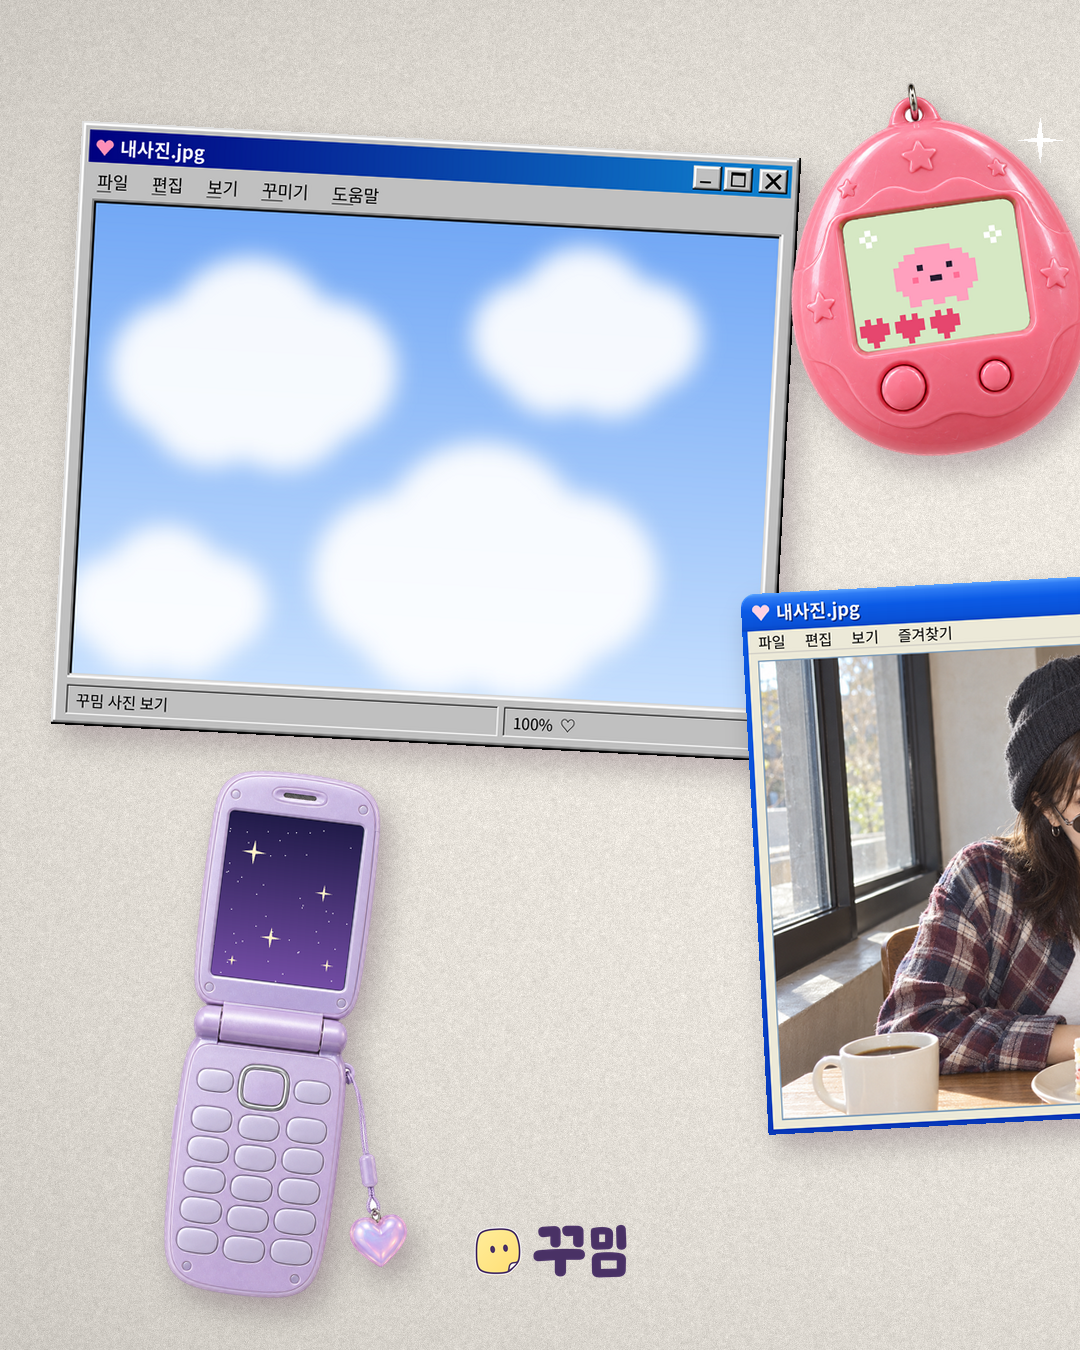
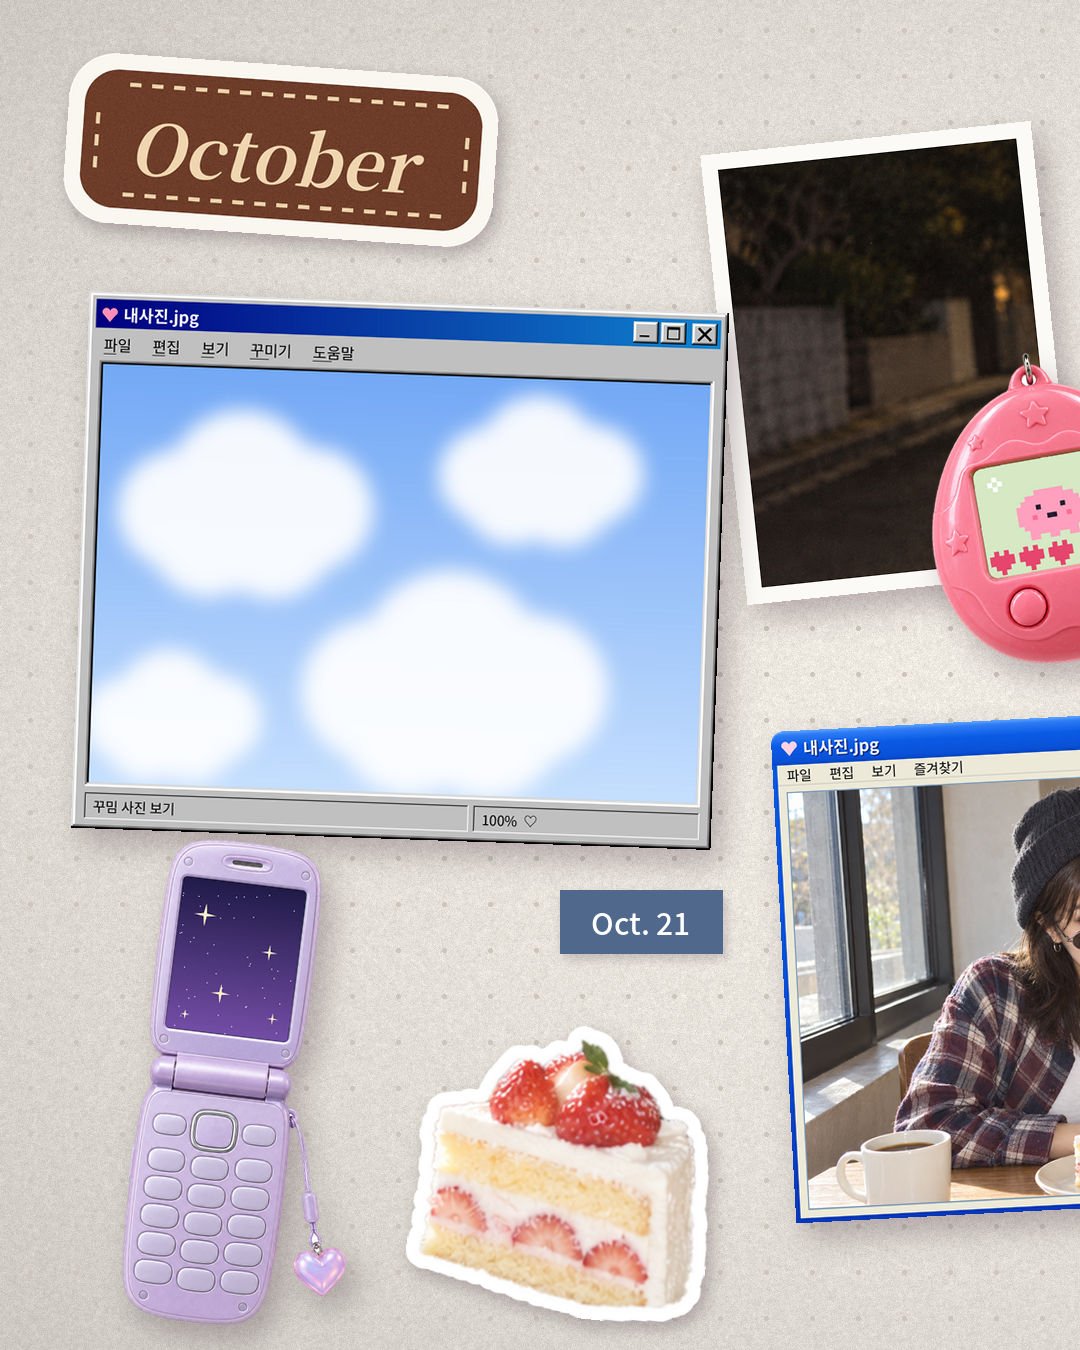
kkumeme 프레임 홍보 시안 v3 (스크랩북 요소: 인화 사진·자수 패치·라벨·케이크 오림·단추 스티커)
Claude-Session: https://claude.ai/code/session_01Sztbiq9udTvNwGj4WqCidT

diff --git a/kkumeme/promo-frames/tools/compose3.py b/kkumeme/promo-frames/tools/compose3.py
@@ -1,0 +1,63 @@
+exec(open('/home/claude/promo/compose.py').read().split('c = background(); d = ImageDraw.Draw(c)')[0])
+SC = '/home/claude/promo/screens/'
+def bg_dots():
+    c = background(); d = ImageDraw.Draw(c)
+    for y in range(30, H, 46):
+        for x in range(30, W, 46): d.ellipse([x-2, y-2, x+2, y+2], fill=(205, 198, 188, 255))
+    return c
+def print_photo(path, box, w, h, border=0.055, bright=1.0):
+    ph = Image.open(path).convert("RGB").crop(box); ph = ph.point(lambda v: min(255, int(v*bright))); sc = max(w/ph.width, h/ph.height)
+    ph = ph.resize((math.ceil(ph.width*sc), math.ceil(ph.height*sc)), Image.LANCZOS)
+    ox, oy = (ph.width-w)//2, (ph.height-h)//2; ph = ph.crop((ox, oy, ox+w, oy+h))
+    b = int(min(w, h)*border); out = Image.new("RGBA", (w+2*b, h+2*b), (252, 250, 246, 255)); out.paste(ph, (b, b)); return out
+def patch(text, w=430, h=170):
+    S = 3; im = Image.new("RGBA", (w*S, h*S), (0,0,0,0)); d = ImageDraw.Draw(im)
+    d.rounded_rectangle([0, 0, w*S-1, h*S-1], radius=46*S, fill=(250, 247, 240, 255))
+    m = 16*S; d.rounded_rectangle([m, m, w*S-m, h*S-m], radius=34*S, fill=(110, 62, 42, 255))
+    # felt noise
+    a = np.asarray(im).astype(np.float32); rng = np.random.default_rng(1); nz = rng.normal(0, 9, a.shape[:2])
+    inner = a[...,3] > 0; a[...,:3][(a[...,0] < 200)] += nz[(a[...,0] < 200)][:, None]; im = Image.fromarray(a.clip(0,255).astype(np.uint8), "RGBA"); d = ImageDraw.Draw(im)
+    # stitches
+    s = 30*S; x0, y0, x1, y1 = s, s, w*S-s, h*S-s; step = 22*S
+    for x in range(x0+30*S, x1-30*S, step): d.line([x, y0, x+11*S, y0], fill=(236, 210, 170), width=4*S); d.line([x, y1, x+11*S, y1], fill=(236, 210, 170), width=4*S)
+    for y in range(y0+30*S, y1-30*S, step): d.line([x0, y, x0, y+11*S], fill=(236, 210, 170), width=4*S); d.line([x1, y, x1, y+11*S], fill=(236, 210, 170), width=4*S)
+    t = Image.new("RGBA", im.size, (0,0,0,0)); dt = ImageDraw.Draw(t)
+    dt.text((w*S//2, h*S//2+4*S), text, font=ImageFont.truetype("/usr/share/fonts/opentype/noto/NotoSerifCJK-Bold.ttc", 70*S, index=1), fill=(240, 214, 176), anchor="mm")
+    t = t.transform(t.size, Image.AFFINE, (1, 0.22, -0.11*t.height, 0, 1, 0), resample=Image.BICUBIC)
+    im.alpha_composite(t); return im.resize((w, h), Image.LANCZOS)
+def label(text, bgc, w=None, fs=30):
+    f = F(fs, "Medium"); tw = int(ImageDraw.Draw(Image.new("RGB", (1,1))).textlength(text, font=f)); w = w or tw + 64; h = fs + 34
+    im = Image.new("RGBA", (w, h), bgc + (255,)); ImageDraw.Draw(im).text((w//2, h//2), text, font=f, fill=(255,255,255), anchor="mm"); return im
+def button(r=90, col=(226, 48, 58)):
+    S = 3; R = r*S; im = Image.new("RGBA", (2*R+40*S, 2*R+60*S), (0,0,0,0)); d = ImageDraw.Draw(im); cx, cy = R+20*S, R+46*S
+    d.ellipse([cx-R-12*S, cy-R-12*S, cx+R+12*S, cy+R+12*S], fill=(252, 250, 246))  # die-cut
+    d.polygon([(cx+6*S, cy-R+6*S), (cx+60*S, cy-R-34*S), (cx+20*S, cy-R+10*S)], fill=(252,250,246)); 
+    d.ellipse([cx-R, cy-R, cx+R, cy+R], fill=col); d.ellipse([cx-R*0.75, cy-R*0.8, cx-R*0.1, cy-R*0.35], fill=(255, 120, 120))
+    d.ellipse([cx+8*S, cy-R-26*S, cx+56*S, cy-R+6*S], fill=(70, 160, 70))
+    for dx in (-26, 26): d.ellipse([cx+dx*S-16*S, cy-16*S, cx+dx*S+16*S, cy+16*S], fill=(255, 235, 235))
+    return im.resize((im.width//S, im.height//S), Image.LANCZOS)
+
+c = bg_dots(); d = ImageDraw.Draw(c)
+# left
+shadow_place(c, patch("October"), 60, 50, rot=-4, blur=8, off=(5, 7))
+shadow_place(c, print_photo(PH+"street-flash.png", (0, 0, 520, 760), 300, 420, bright=1.35), 700, 120, rot=6)
+shadow_place(c, framed("window-retro", SC+"sky.png", 640), 70, 290, rot=-2)
+shadow_place(c, framed("pet-egg", SC+"pixel-pet.png", 250, (0.5, 0.5)), 900, 330, rot=10)
+shadow_place(c, label("Oct. 21", (79, 104, 140)), 560, 890, rot=0, blur=5, off=(3, 5), op=0.2)
+shadow_place(c, framed("flip-phone", SC+"wallpaper.png", 230, (0.5, 0.3)), 110, 830, rot=-7)
+cake = Image.open(WK+"cake.png"); cake = cake.resize((300, int(300*cake.height/cake.width)), Image.LANCZOS)
+shadow_place(c, cake, 400, 1010, rot=-6, blur=8, off=(5, 7))
+# seam
+shadow_place(c, framed("window-glossy", "cafe-strawberry.png", 600, (0.5, 0.35)), 770, 700, rot=3)
+# right
+shadow_place(c, print_photo(PH+"laughing-wide.png", (1180, 0, 1536, 420), 300, 330), 1230, 110, rot=-7)
+shadow_place(c, framed("crt-tv", "laughing-wide.png", 480, (0.5, 0.3)), 1560, 60, rot=-4)
+shadow_place(c, button(70), 1400, 520, rot=-12, blur=6, off=(4, 6))
+sf = Image.open(WK + "sticker-face.png"); sf = sf.resize((380, int(380*sf.height/sf.width)), Image.LANCZOS)
+pl = peeled(sf, (sf.width*0.74, sf.height*0.80), (1.0, 0.85)); shadow_place(c, pl, 1720, 600, rot=7, blur=8, off=(6, 8))
+shadow_place(c, label("11:11", (64, 160, 130)), 1500, 900, rot=-2, blur=5, off=(3, 5), op=0.2)
+shadow_place(c, framed("handheld-game", SC+"pixel-game.png", 520, (0.5, 0.5)), 1450, 1060, rot=-5)
+logo = Image.open("/home/claude/devrocket-media/kkumeme/brand/logo-horizontal.png").convert("RGBA"); logo = logo.resize((150, int(150*logo.height/logo.width)), Image.LANCZOS)
+c.alpha_composite(logo, (W - 190, 40))
+c = c.convert("RGB"); c.save(WK+"wide.png"); c.crop((0, 0, 1080, H)).save(WK+"slide-1.png"); c.crop((1080, 0, 2160, H)).save(WK+"slide-2.png")
+c.resize((1080, 675)).save("/tmp/claude-0/wide.jpg", quality=88)

diff --git a/kkumeme/promo-frames/tools/grab.py b/kkumeme/promo-frames/tools/grab.py
@@ -1,0 +1,17 @@
+import cv2, numpy as np, sys
+from PIL import Image
+from scipy import ndimage as ndi
+src, out, x0, y0, x1, y1 = sys.argv[1], sys.argv[2], *map(int, sys.argv[3:7])
+img = cv2.imread(src); mask = np.zeros(img.shape[:2], np.uint8)
+bgd = np.zeros((1,65), np.float64); fgd = np.zeros((1,65), np.float64)
+cv2.grabCut(img, mask, (x0, y0, x1-x0, y1-y0), bgd, fgd, 8, cv2.GC_INIT_WITH_RECT)
+m = ((mask == 1) | (mask == 3))
+lab, n = ndi.label(m); sizes = ndi.sum(m, lab, range(1, n+1)); m = lab == (1+int(np.argmax(sizes)))
+m = ndi.binary_fill_holes(ndi.binary_closing(m, iterations=3))
+a = ndi.gaussian_filter(m.astype(np.float32), 1.0)
+rgb = cv2.cvtColor(img, cv2.COLOR_BGR2RGB).astype(np.float32)
+H, W = a.shape; t = int(min(x1-x0, y1-y0)*0.05); pad = t+8
+A = np.pad(a, pad); RGB = np.pad(rgb, ((pad,pad),(pad,pad),(0,0)))
+dist = ndi.distance_transform_edt(A < 0.5); border = np.clip(t+1-dist, 0, 1)
+outA = np.maximum(A, border); outRGB = RGB*A[...,None] + 255*(1-A[...,None])
+im = Image.fromarray(np.dstack([outRGB, outA*255]).clip(0,255).astype(np.uint8), "RGBA"); im = im.crop(im.getbbox()); im.save(out); print(im.size)
